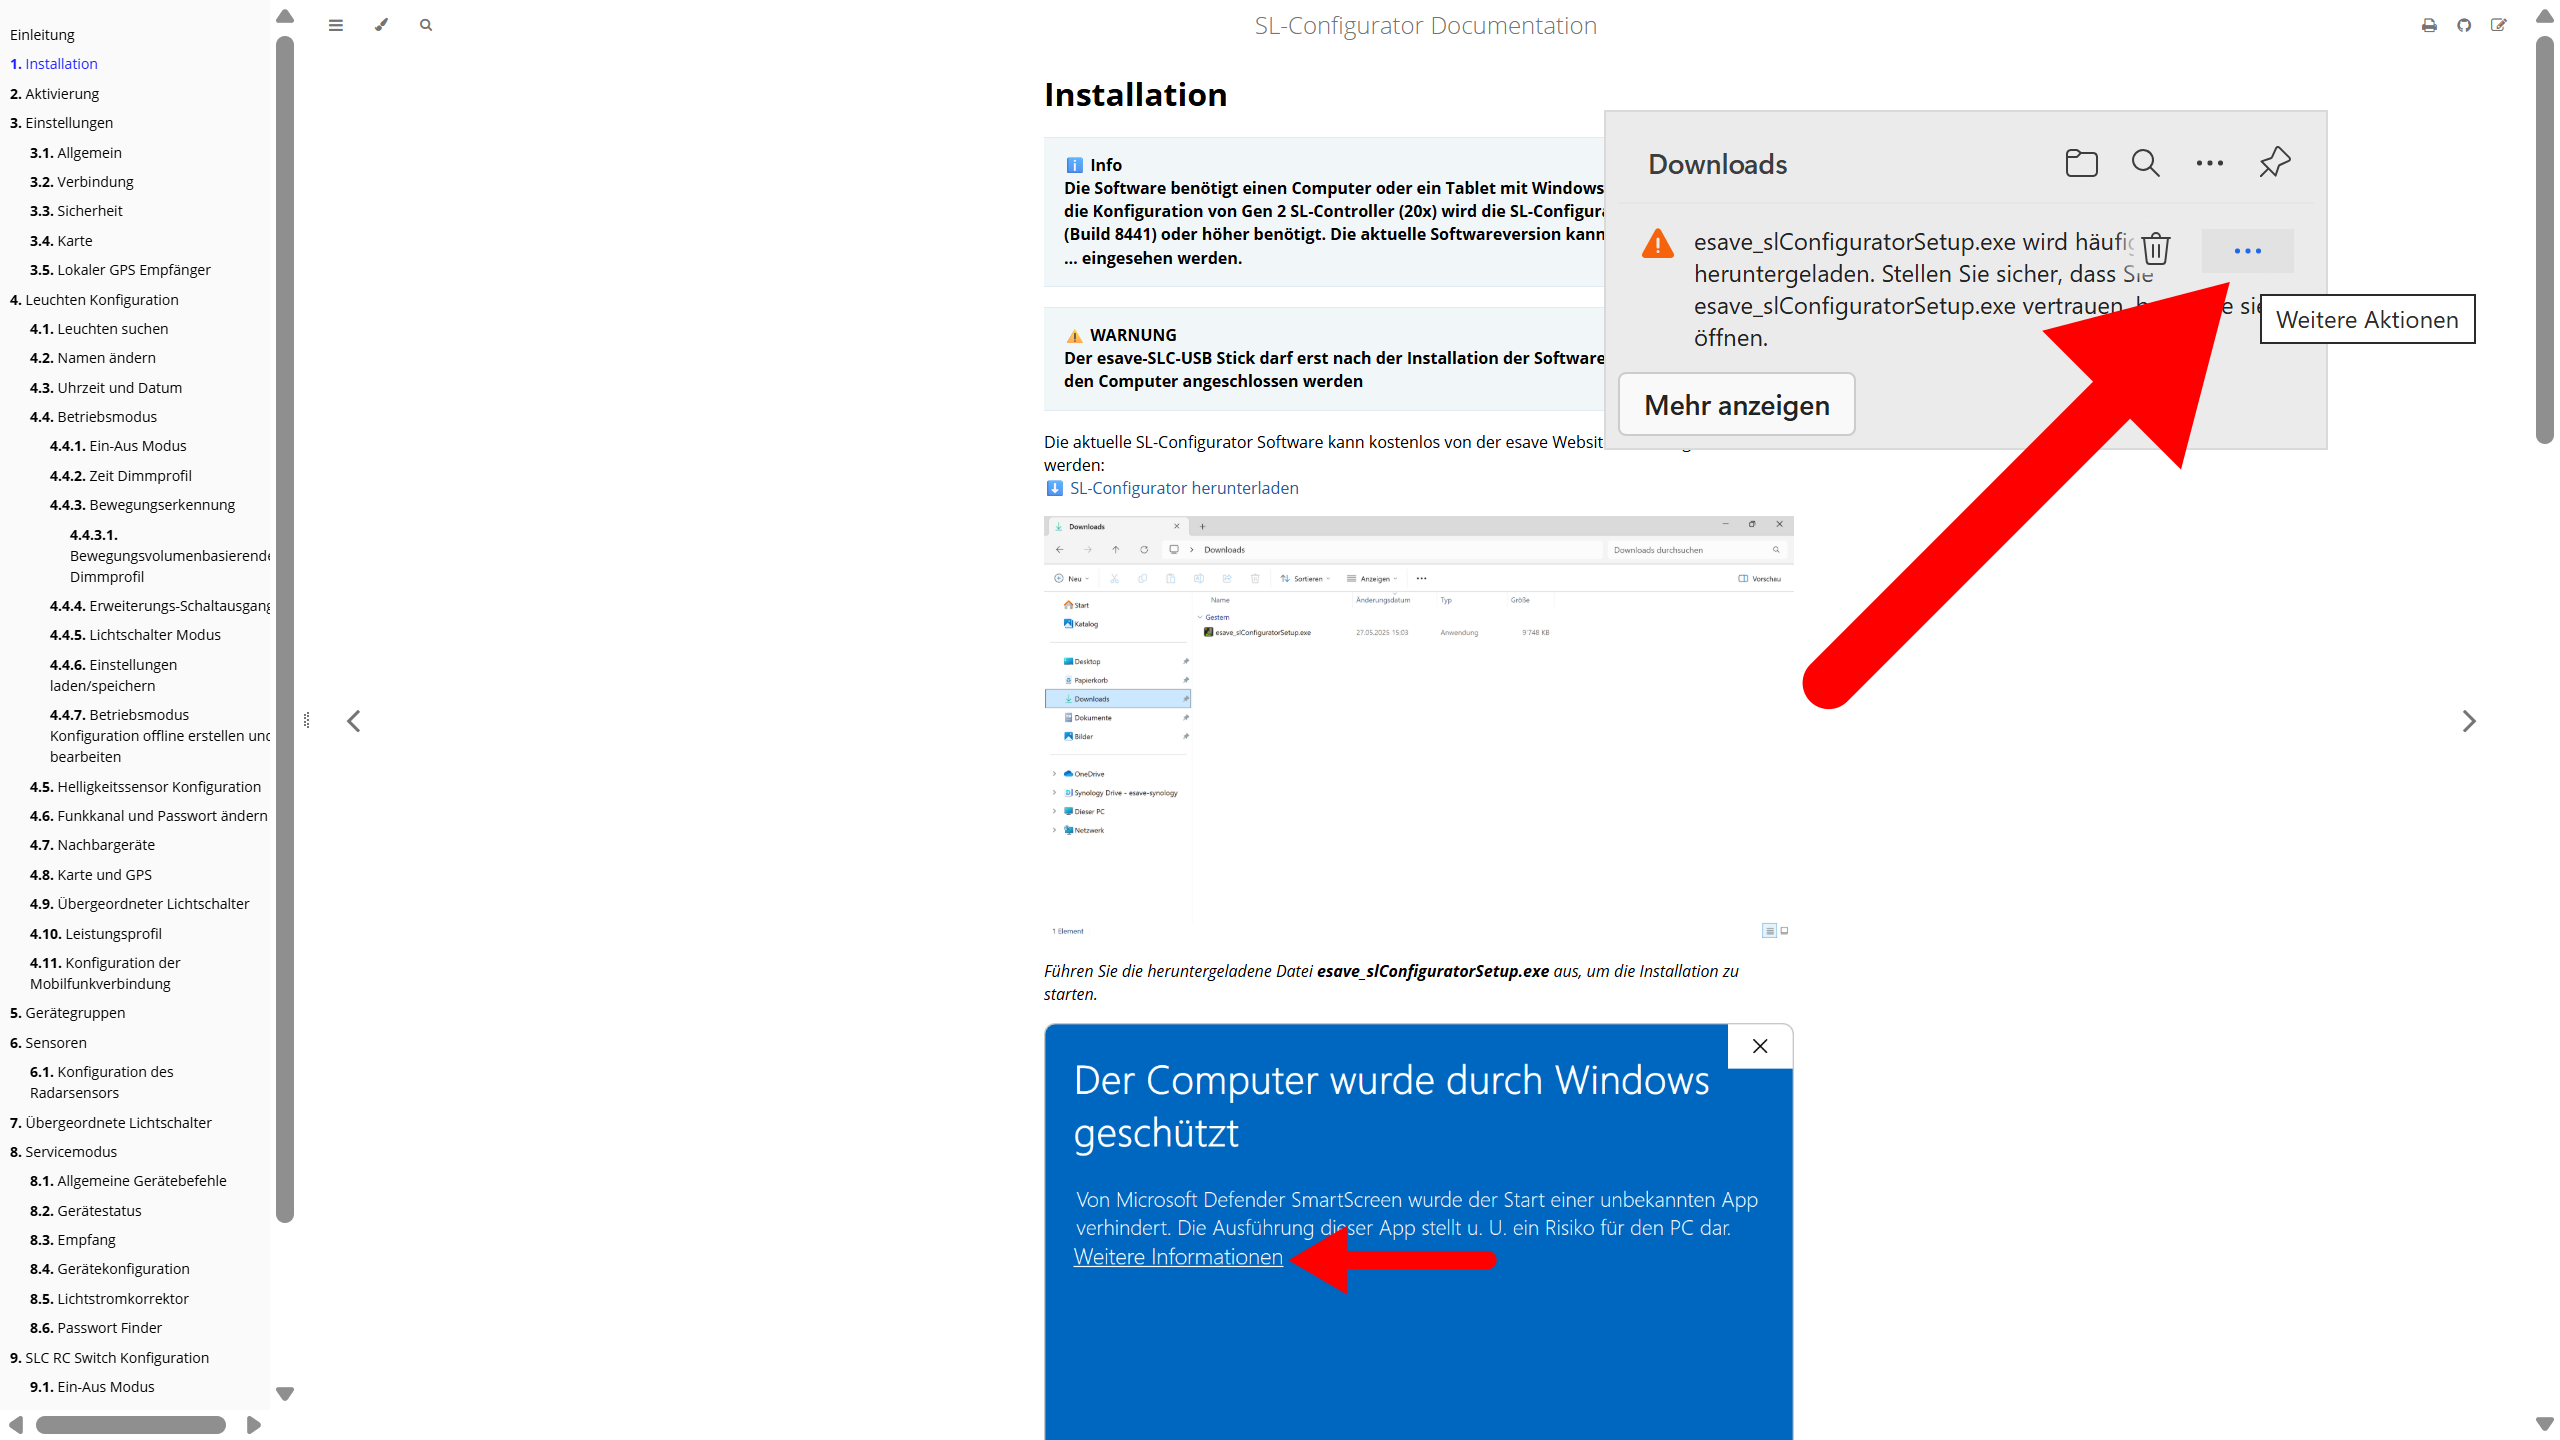
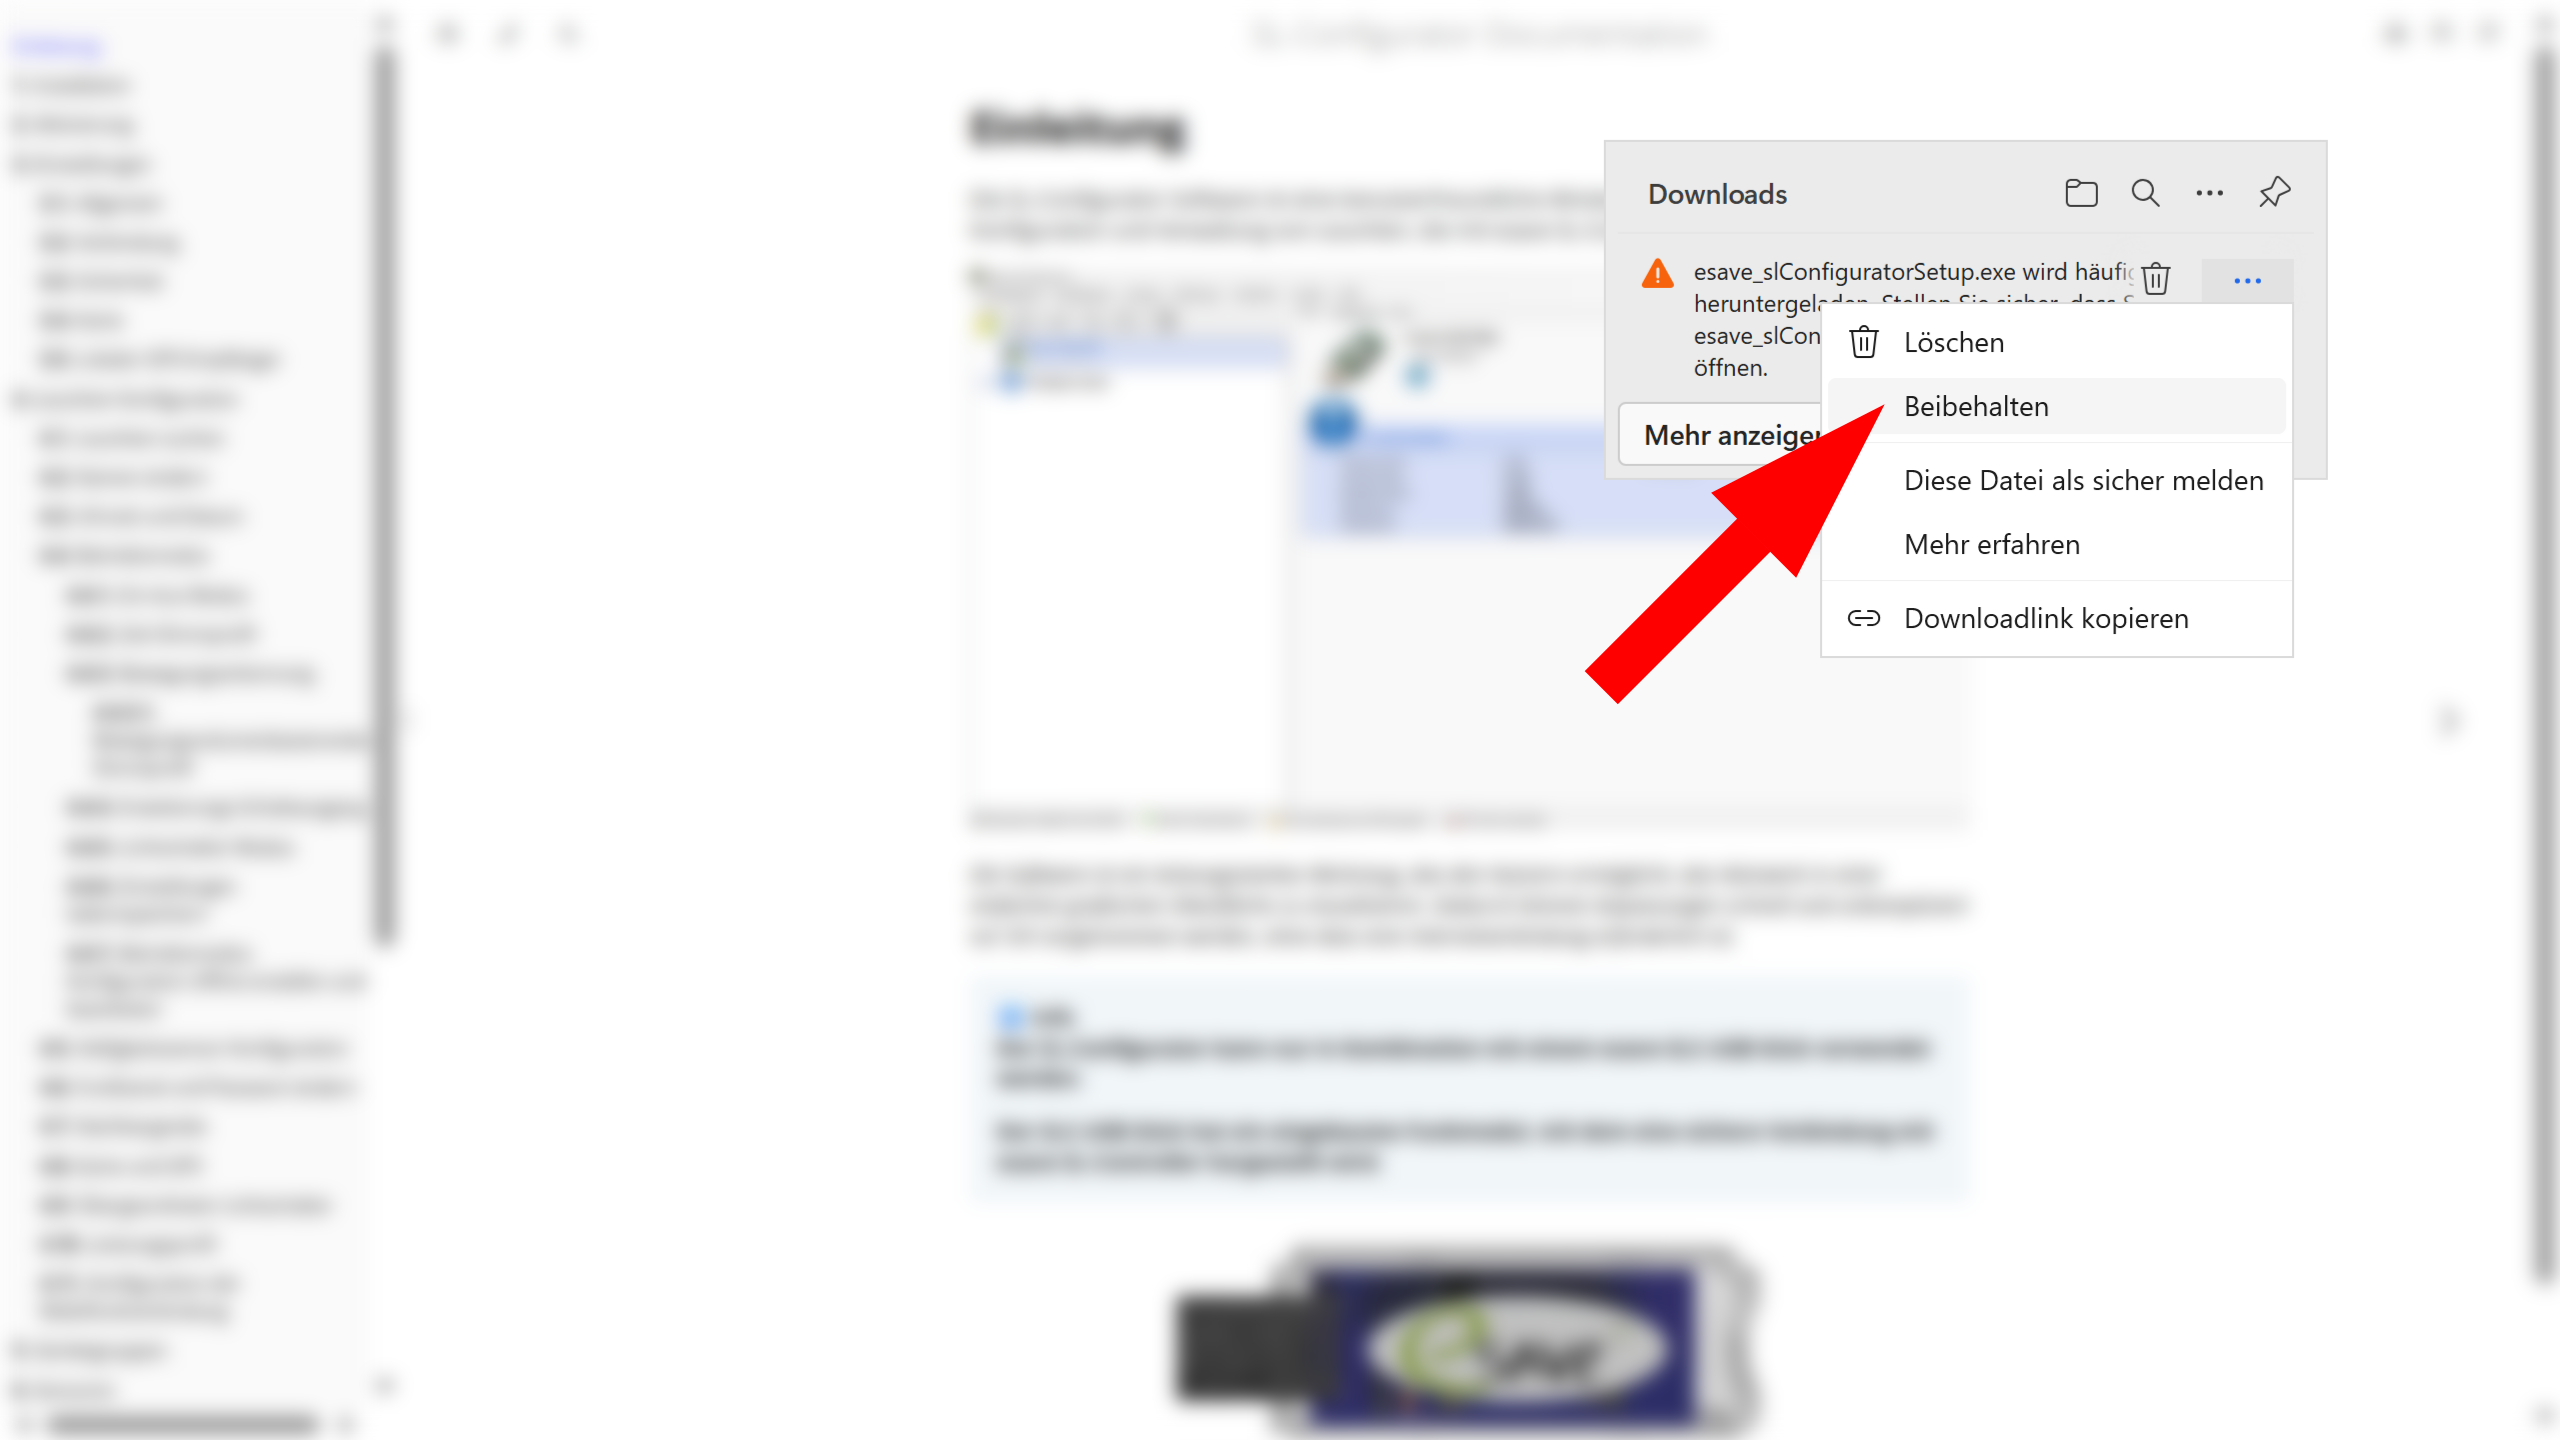
Update installation instructions and images

diff --git a/de/src/1-installation/README.md b/de/src/1-installation/README.md
@@ -9,62 +9,51 @@
 Die aktuelle SL-Configurator Software kann kostenlos von der esave Website heruntergeladen werden:  
 [⬇ SL-Configurator herunterladen](https://www.esaveag.com/iLightConfigurator/esave/esave_slConfiguratorSetup.exe)
 
+
 ![Download und Ausführen der Setup-Datei unter Windows 11](installation-1-download-1.png)
-
-*Im Browser erscheient eine Meldung dass die Software nich oft heruntergeladen wird.*
-
-![Download und Ausführen der Setup-Datei unter Windows 11](installation-2-download-2.png)
 
 *Klicken Sie auf sie 3 Punkte neben dem Download auf <strong>Weiter AKtionen</strong>.*
 
-![Download und Ausführen der Setup-Datei unter Windows 11](installation-3-download-3.png)
+![Download und Ausführen der Setup-Datei unter Windows 11](installation-2-download-2.png)
 
 *Klicken Sie auf <strong>Beibehalten</strong>.*
 
-![Download und Ausführen der Setup-Datei unter Windows 11](installation-4-download-4.png)
-
-*Eine Warnung erscheint.*
-
-![Download und Ausführen der Setup-Datei unter Windows 11](installation-5-download-5.png)
+![Download und Ausführen der Setup-Datei unter Windows 11](installation-3-download-3.png)
 
 *Klicken Sie auf <strong>Mehr anzeigen</strong>.*
 
-![Download und Ausführen der Setup-Datei unter Windows 11](installation-6-download-6.png)
+![Download und Ausführen der Setup-Datei unter Windows 11](installation-4-download-4.png)
 
 *Klicken Sie auf <strong>Trotzdem beibehalten</strong>.*
 
-![Download und Ausführen der Setup-Datei unter Windows 11](installation-7-download-7.png)
-
-*Der Download wird fortgesetzt*
-
-![Download und Ausführen der Setup-Datei unter Windows 11](installation-8-download-8.png)
+![Download und Ausführen der Setup-Datei unter Windows 11](installation-5-download-5.png)
 
 *Der Download ist abgeschlossen, nun befindet sich die Datei im Downoads Ordner.*
 
-![Download und Ausführen der Setup-Datei unter Windows 11](installation-9-download-9.png)
+![Download und Ausführen der Setup-Datei unter Windows 11](installation-6-download-6.png)
 
 *Führen Sie die heruntergeladene Datei <strong>esave_slConfiguratorSetup.exe</strong> aus, um die Installation zu starten.*
 
-![Smartscreen Screenshot](installation-10-smartscreen-1.png)
+![Smartscreen Screenshot](installation-7-smartscreen-1.png)
 
 *Der Windows Smartscreen warnt vor unbekannten Anwendungen. Klicken Sie auf <strong>Weitere Informationen</strong>, um fortzufahren.*
 
-![Smartscreen Screenshot](installation-11-smartscreen-2.png)
+![Smartscreen Screenshot](installation-8-smartscreen-2.png)
 
 *Klicken Sie auf <strong>Trotzdem ausführen</strong>, um die Installation fortzusetzen.*
 
-![Einstellen der Sprache der Software](installation-12-sprachwahl.png)
+![Einstellen der Sprache der Software](installation-9-sprachwahl.png)
 
 *Wählen Sie die gewünschte Sprache der Software.*
 
-![Willkommen bei der Installation der Software](installation-13-setup-1.png)
+![Willkommen bei der Installation der Software](installation-10-setup-1.png)
 
 *Klicken Sie auf <strong>Weiter</strong>, um die Software in der gewünschten Sprache zu installieren.*
 
-![Zielordner wählen](installation-14-setup-2.png)
+![Zielordner wählen](installation-11-setup-2.png)
 
 *Wählen Sie den Ordner, in welchem Sie die Software installieren möchten.*
 
-![Abschluss der Installation](installation-15-setup-3.png)
+![Abschluss der Installation](installation-12-setup-3.png)
 
 *Klicken Sie auf <strong>Fertigstellen</strong>, um die Installation abzuschließen.* 
